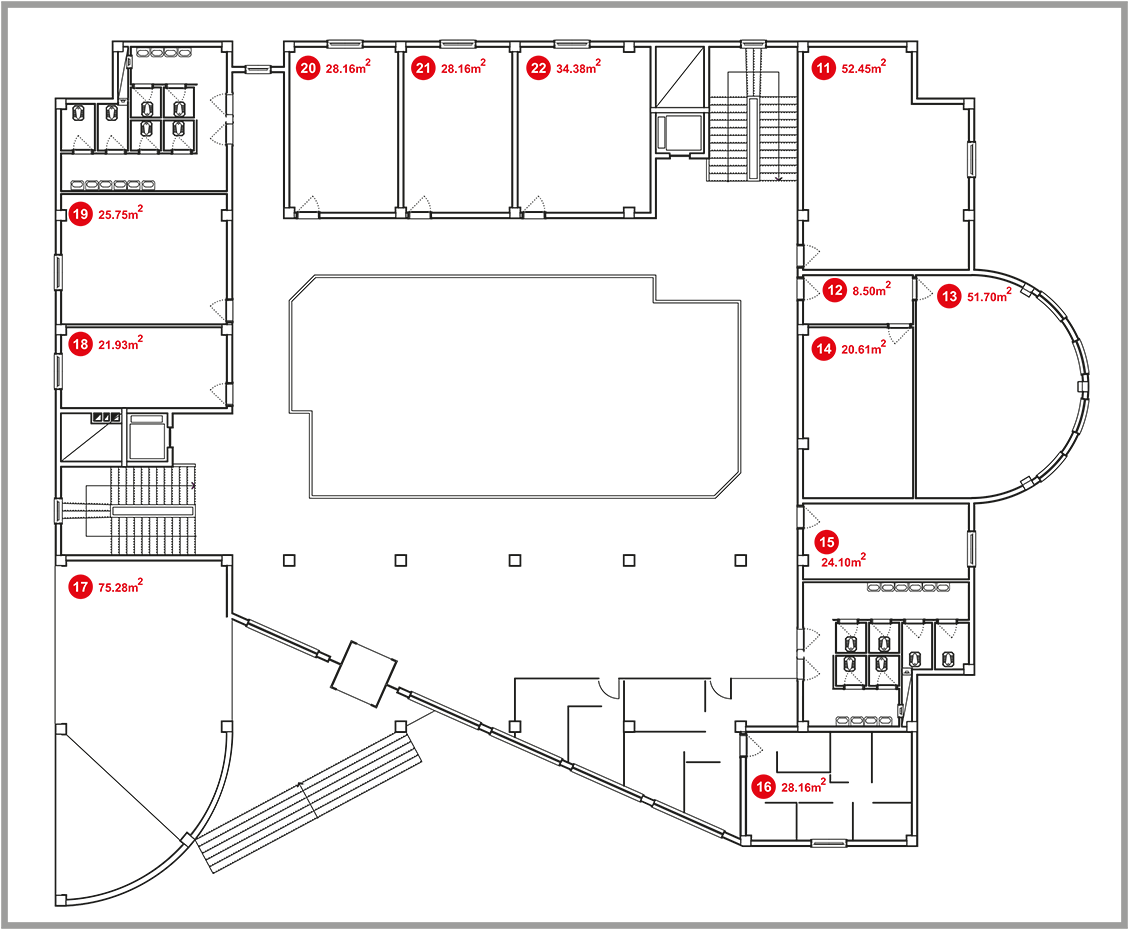
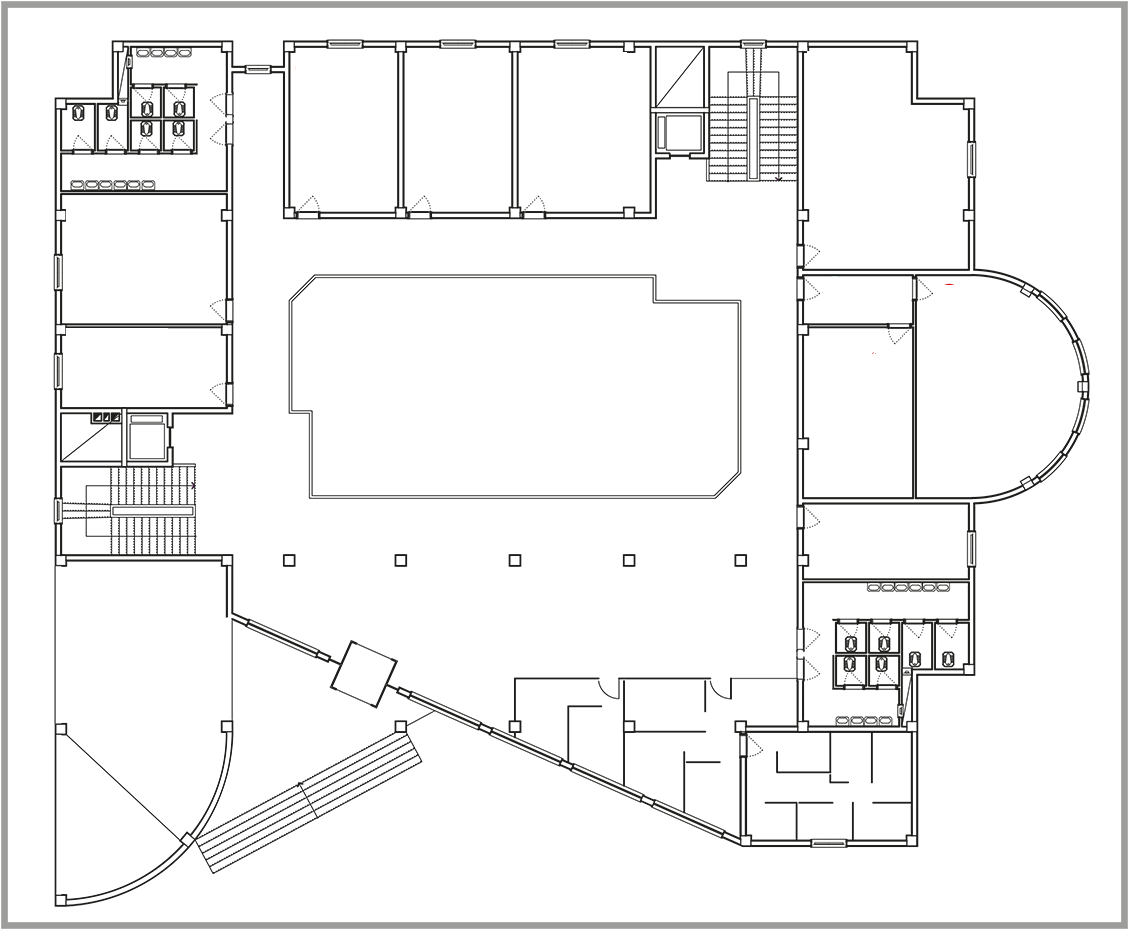
sdsd

diff --git a/harita.php b/harita.php
@@ -7,26 +7,50 @@ function stnc_wp_floor_adminMenu_map()
     global $wpdb;
     global $stncForm_tableNameMain;
 
+    date_default_timezone_set('Europe/Istanbul');
+      $date = date('Y-m-d h:i:s a', time());
+    
     // if (!empty($_POST)) {
         $kat_numarasi        ='';
     if ((isset($_POST['kaydet'])) && ($_POST['kaydet'] === 'kaydet')) {
  //sanitize_text_field
- $kat_numarasi        = isset($_POST["kat_numarasi"]) ? sanitize_text_field($_POST["kat_numarasi"]) : "";
+     $floor_no = isset($_POST["floor_no"]) ? sanitize_text_field($_POST["floor_no"]) : "0";
+     $company_name = isset($_POST["company_name"]) ? sanitize_text_field($_POST["company_name"]) : " isim eklenmemiş";
+     $square_meters = isset($_POST["square_meters"]) ? sanitize_text_field($_POST["square_meters"]) : 0;
+     $email = isset($_POST["email"]) ? sanitize_text_field($_POST["email"]) : " ";
+     $phone = isset($_POST["phone"]) ? sanitize_text_field($_POST["phone"]) : " ";
+     $mobile_phone = isset($_POST["mobile_phone"]) ? sanitize_text_field($_POST["mobile_phone"]) : " ";
+     $web_site = isset($_POST["web_site"]) ? sanitize_text_field($_POST["web_site"]) : " ";
+     $map_location = isset($_POST["map_location"]) ? sanitize_text_field($_POST["map_location"]) : '{"left":12,"top":112,"width":82.42500305175781,"height":30,"x":12,"y":112,"right":94.42500305175781,"bottom":142}';
+     $company_description = isset($_POST["company_description"]) ? sanitize_text_field($_POST["company_description"]) : " ";
+     $address = isset($_POST["address"]) ? sanitize_text_field($_POST["address"]) : " ";
+     $address = isset($_POST["address"]) ? sanitize_text_field($_POST["address"]) : " ";
+
 
 
 
         $success =   $wpdb->insert( 
             $stncForm_tableNameMain, 
             array( 
-                'column1' => 'value1', 
-                'column2' => 123 
+                'building_id' => 1, 
+                'floor_id' => 1,
+                'floor_no' =>   $floor_no ,
+                'company_name' => $company_name ,
+                'email' =>   $email ,
+                'phone' =>   $phone ,
+                'mobile_phone' => $mobile_phone ,
+                'web_site' =>   $web_site ,
+                'map_location' =>   $map_location ,
+                 'company_description' =>   $company_description ,
+                'address' =>   $address ,
+                'add_date' =>   $date ,
             ), 
         );
 
 
       
         if ($success) {
-            echo '<h3>Your request successfully send to HomeFix! Our Staff will contact you!</h3>';
+            echo '<h3>Kayıt yapıldı</h3>';
         }
     }
 ?>
@@ -193,8 +217,8 @@ html.wp-toolbar {
                         foreach ($results as $result) :
                         ?>
 
-                    <div id="ex-<?php echo $result->name; ?>-draggable" class="draggable">eleman
-                        <?php echo $result->name; ?></div>
+                    <div id="ex-<?php echo $result->floor_no; ?>-draggable" class="draggable">eleman
+                        <?php echo $result->floor_no; ?></div>
                     <?php
                         endforeach
                         ?>
@@ -214,9 +238,9 @@ html.wp-toolbar {
                                 <h5 class="card-title">Firma Ekleme</h5>
 
                                 <div class="form-group">
-                                    <label for="kat_numarasi">Kat Numarasi</label>
-                                    <input type="number" name="kat_numarasi" value="" class="form-control"
-                                        id="kat_numarasi" min="1" max="50">
+                                    <label for="floor_no">Kat Numarasi</label>
+                                    <input type="number" name="floor_no" value="" class="form-control"
+                                        id="floor_no" min="1" max="50">
                                     <small id="kat_numarasiHelp" class="form-text text-muted">kat numarasi sayisal
                                         olmalidir</small>
                                 </div>
@@ -257,7 +281,7 @@ html.wp-toolbar {
                                     <input type="text" name="web_site" value="" class="form-control" id="web_site">
                                 </div>
                                 <hr>
-                            
+
                                 <div class="form-group">
                                     <label for="company_description">Firma hakkında detaylı bilgi </label>
                                     <textarea class="form-control" name="company_description" id="company_description"
@@ -350,12 +374,12 @@ global $wpdb;
             $i = 0;
             $top = 88;
             foreach ($results as $key => $result) :
-                $data =  str_replace([" ", '\\'], null, $result->location);
+                $data =  str_replace([" ", '\\'], null, $result->map_location);
                 $position =  json_decode($data, true, JSON_UNESCAPED_SLASHES);
 
             ?>
-    var draggable<?php echo $result->name; ?> = new PlainDraggable(document.getElementById(
-        'ex-<?php echo $result->name; ?>-draggable'), {
+    var draggable<?php echo $result->floor_no; ?> = new PlainDraggable(document.getElementById(
+        'ex-<?php echo $result->floor_no; ?>-draggable'), {
         leftTop: true,
         onDragEnd: function(moveTo) {
             var rect = this.rect,
@@ -367,6 +391,7 @@ global $wpdb;
                 }
 
             ajaxCall(<?php echo $result->id; ?>, rect)
+            console.log( rect)
 
             // Check confliction if it's possible.
         },

diff --git a/haritaSabit.php b/haritaSabit.php
@@ -49,10 +49,10 @@ html.wp-toolbar {
 
     .draggable {
         display: inline-block;
-        padding: 1px 4px;
-        font-weight: bold;
-        color: white;
-        background-color: indianred;
+        /* padding: 1px 4px; */
+        /* font-weight: bold; */
+        /* color: white; */
+        /* background-color: indianred; */
     }
     .draggable {
         position: absolute;
@@ -146,21 +146,38 @@ html.wp-toolbar {
 
 
 global $wpdb;
-        $sql = "SELECT * FROM wp_stnc_floor ";
+$stncForm_tableNameMain = $wpdb->prefix . 'stnc_floor_building';
+        $sql = "SELECT * FROM ".$stncForm_tableNameMain."";
         $results = $wpdb->get_results($sql);
         $i=0;  
         $top=88;  
      foreach( $results as $key =>$result ):
-$data=  str_replace([" ", '\\'], null, $result->location);
+$data=  str_replace([" ", '\\'], null, $result->map_location);
 $position=  json_decode( $data, true, JSON_UNESCAPED_SLASHES);
 ?>
 
- <div data-toggle="tooltip" data-placement="left" title="stnc yazılım <?php  echo $result->name;?>" style="
-              left:  <?php  echo  $position["left"]!="" ? $position["left"]-32 : '0'; ?>px;
+ <div data-toggle="tooltip" data-placement="left" title="<?php  echo $result->company_name;?>" style="left:<?php  echo  $position["left"]!="" ? $position["left"]-32 : '0'; ?>px; top:  <?php  echo  $position["top"]!="" ? $position["top"]-88 : '0'; ?>px;" id="ex-<?php  echo $result->floor_no;?>-draggable" data-bs-toggle="tooltip"  
+            class="draggable"> 
+        <span style="border-radius: 78px;
+    /* padding: 1px; */
+    color: blanchedalmond;
+    background-color: blue;
+    display: inline-block;
+    width: 26px;
+    float: left;
+    margin: 0;
+    padding: 0;"><?php  echo $result->floor_no;?></span>
+        <span style="       border-radius: 78px;
+    padding: 1px;
+    color: #212529;
+
+    display: block;
+    width: 90px;
+
+    margin: 0;
+    padding: 0;"><?php  echo $result->square_meters;?> m2</span>
         
-            top:  <?php  echo  $position["top"]!="" ? $position["top"]-88 : '0'; ?>px;
-            " id="ex-<?php  echo $result->name;?>-draggable" data-bs-toggle="tooltip"  
-            class="draggable">eleman <?php  echo $result->name;?></div>
+        </div>
 
 
 

diff --git a/stnc-kiosk-ajax.php b/stnc-kiosk-ajax.php
@@ -12,29 +12,12 @@ function stnc_wp_floor_stncStatus_ajax_request() {
    // wp_send_json_success( 'It works' );
    global $wpdb;
    $id = $_POST['id'];
- 
-
-   $someJSON1 ='{"left":230,"top":293,"width":74.42500305175781,"height":26,"x":230,"y":293,"right":304.4250030517578,"bottom":319}';
-//    print_r($someJSON1);
 
  $jsonText =$_POST['location'];
-   $someJSON2 = '[{"name":"Jonathan Suh","gender":"male"},{"name":"William Philbin","gender":"male"},{"name":"Allison McKinnery","gender":"female"}]';
-//    print_r($someJSON1);
 
-    // echo  $tempData = html_entity_decode($_POST['location'] );
-// echo $cleanData = json_decode($tempData);
-// echo $jsonText = $_REQUEST['location'];
-//  $d1='['.$_POST["location"].']';
+ $stncForm_tableNameMain = $wpdb->prefix . 'stnc_floor_building';
 
-// echo $d= json_encode( $_REQUEST['location']);
-// echo $d= json_encode( $a);
-// // var_dump(json_decode($d, true));
-
-
-// Display replaced string
-
-
-   $wpdb->update('wp_stnc_floor', array('location'=>$jsonText), array('id'=>$id));
+   $wpdb->update( $stncForm_tableNameMain, array('map_location'=>$jsonText), array('id'=>$id));
 
 
 
